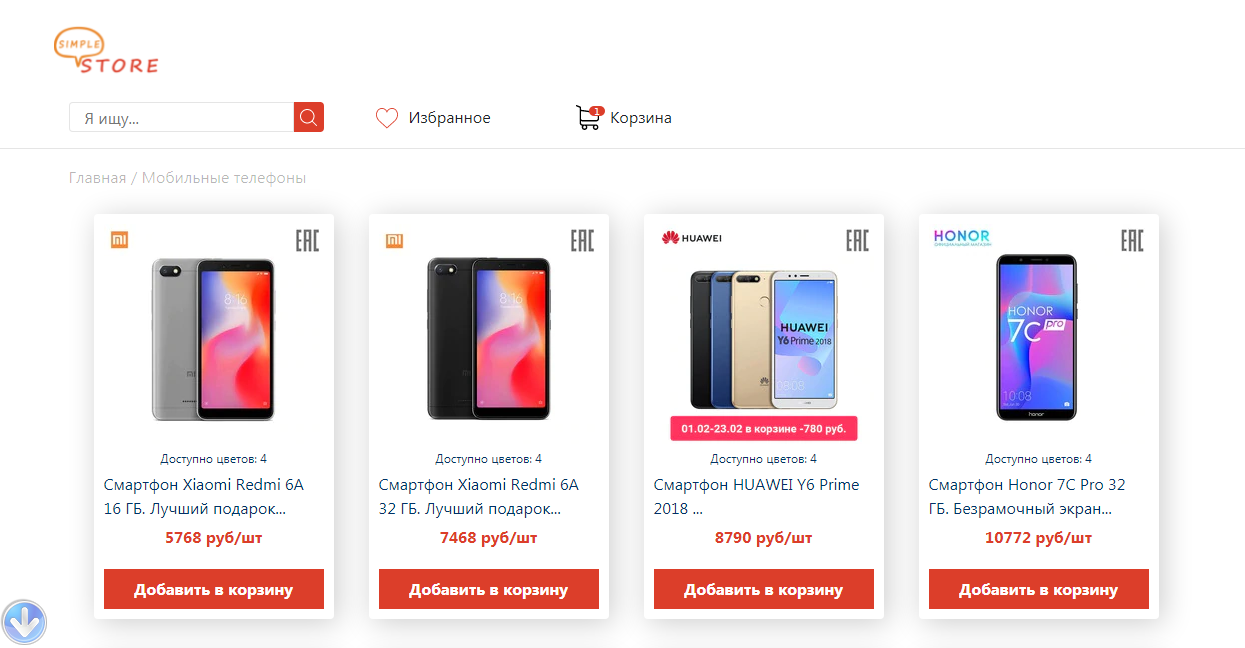
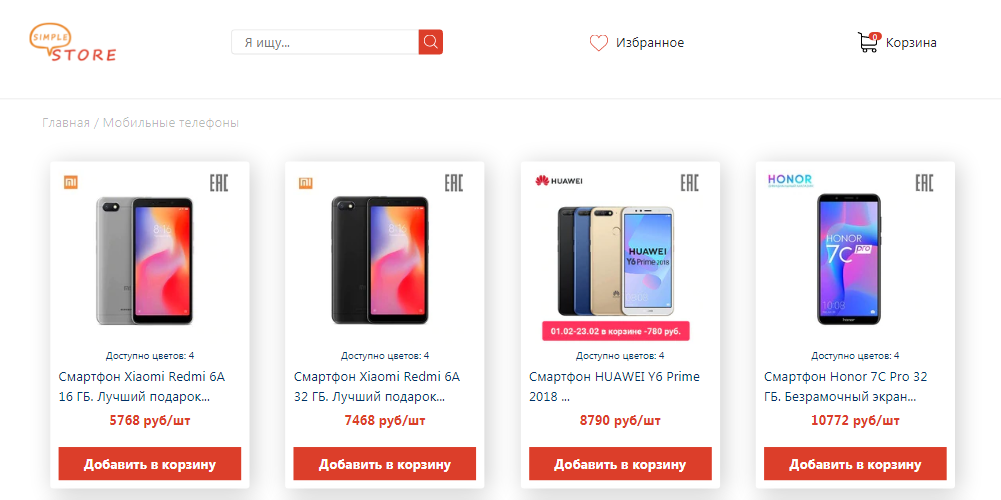
Add all the projects sections

diff --git a/index.html b/index.html
@@ -109,30 +109,29 @@
   <section class="section-wrapper" id="layout">
     <div class="container bg-dark">
       <h2>Вёрстка</h2>
-      <p class="text-white">В этом блоке вы можете ознакомится с некоторыми примерами моих работ по вёрстке веб-страниц.</p>
+      <p class="text-white">Хоть я и не акцентируюсь на вёрстке, но в этом блоке вы можете ознакомится с некоторыми примерами моих работ по вёрстке веб-страниц.</p>
       <h3>Примеры моих работ</h3>
-      <div class="projects">
-
-        <div class="projects__item">
-          <div class="card">
-            <a href="https://voverg.github.io/simple-store/" target="_blank">
-              <img src="img/projects/simple-store.png" alt="simple store image">
-              <h4>Simple store</h4>
-              <p>Страничка с выбором товара и реализацией корзины</p>
-            </a>
-          </div>
-        </div>
-
-      </div>
+      <div class="projects"></div>
     </div>
   </section>
 
   <section class="section-wrapper bg-white" id="web-apps">
-    <div class="container">Веб-приложения</div>
+    <div class="container">
+      <h2>Веб-приложения</h2>
+      <p>К данной категории я решил отнести небольшие приложениея, написанные на чистом JavaScript, которые представляют из себя программки, плагины, игрушки, калькуляторы и прочие расширения для сайта.</p>
+      <h3>Примеры моих работ</h3>
+      <div class="projects"></div>
+    </div>
   </section>
 
   <section class="section-wrapper" id="spa">
-    <div class="container">SPA(single page application)</div>
+    <div class="container">
+      <h2>SPA</h2>
+      <p class="text-white">SPA (single page application) - что в переводе означает одностраничное приложение. Отличительной особенностью данных приложений является то, что весь функционал приложения динамически генерируется в браузере, а не загружается с сервера в готовом виде. Одностраничным приложение называется потому, что все действия происходят на одной странице без её перезагрузки. Это позволяетя приложению работать быстрее и делает его схожим по функционалу с нативными приложениями, установленными на ПК или телефон.</p>
+      <p class="text-white">При разработке SPA чаще всего использую фреймворки JavaScript, чтобы не заботится о графической отрисовке приложения, а сосредоточится на работе с данными. На текущий момент я в процессе активного изучения фреймворка React, поэтому пользуюсь им.</p>
+      <h3>Примеры моих работ</h3>
+      <div class="projects"></div>
+    </div>
   </section>
 
   <section class="section-wrapper bg-white" id="contacts">
@@ -150,9 +149,9 @@
   <footer class="footer">
     <p>Created 2021 by <a href="https://github.com/voverg" target="_blank">Voverg</a></p>
   </footer>
-</div>
 
+<script src="js/model.js"></script>
+<script src="js/utils.js"></script>
 <script src="js/main.js"></script>
-<script src="https://s.pageclip.co/v1/pageclip.js" charset="utf-8"></script>
 </body>
 </html>

diff --git a/js/model.js b/js/model.js
@@ -1,0 +1,68 @@
+const layoutData = [
+  {
+    title: 'Simple store',
+    link: 'https://voverg.github.io/simple-store/',
+    img: 'img/projects/simple-store.png',
+    description: 'Страничка интернет-магазина с выбором товара и реализацией корзины'
+  },
+  {
+    title: 'Hotel landing',
+    link: 'https://voverg.github.io/hotel-landing/',
+    img: 'img/projects/hotel-landing.png',
+    description: 'Лендинг отеля. Свёрстан на float просто для тренировки и понимания, как работает блочная модель в Css.'
+  }
+];
+
+const webAppsData = [
+  {
+    title: 'Frontend quiz',
+    link: 'https://voverg.github.io/50-simple-projects/frontend-quiz/index.html',
+    img: 'img/projects/frontend-quiz.png',
+    description: 'Викторина, в которой вы можете проверть свои знания по Html, Css и JavaScript'
+  },
+  {
+    title: 'Kanban',
+    link: 'https://voverg.github.io/simple-kanban/',
+    img: 'img/projects/simple-kanban.png',
+    description: 'Небольшое приложение для создание карточек с заметками, которые можно перемещать'
+  },
+  {
+    title: 'Piano',
+    link: 'https://voverg.github.io/50-simple-projects/piano/index.html',
+    img: 'img/projects/piano.png',
+    description: 'Пианино, на котором можно играть как мышкой, так и с клавиатуры'
+  },
+  {
+    title: 'Notes',
+    link: 'https://voverg.github.io/50-simple-projects/notes-app/index.html',
+    img: 'img/projects/notes-app.png',
+    description: 'Создавайте, удаляйте и редактируйте заметки. Для стилизации текста можно использовать Markdown.'
+  },
+  {
+    title: 'Budget',
+    link: 'https://voverg.github.io/budget/',
+    img: 'img/projects/budget.png',
+    description: 'Небольшое приложение по учёту доходов и расходов.'
+  },
+  {
+    title: 'Clicker',
+    link: 'https://voverg.github.io/50-simple-projects/game/index.html',
+    img: 'img/projects/clicker.png',
+    description: 'Игра, в которой нужно за выбранное время попасть максимальное количество раз по шарику.'
+  }
+];
+
+const spaData = [
+  {
+    title: 'Todo',
+    link: 'https://voverg.github.io/todo-react/',
+    img: 'img/projects/todo-react.png',
+    description: 'Небольшое приложение - список дел, написанный на React'
+  },
+  // {
+  //   title: '',
+  //   link: '',
+  //   img: 'img/projects/.png',
+  //   description: ''
+  // }
+];

diff --git a/css/main.css b/css/main.css
@@ -45,13 +45,14 @@ h2 {
 }
 
 h3 {
-  margin: 30px 0 15px;
+  margin: 20px 0 15px;
   font-size: 1.5rem;
 }
 
 p {
+  padding-bottom: 10px;
   color: var(--font-color);
-  font-size: 1.2rem;
+  font-size: 1rem;
 }
 
 .bg-white {
@@ -156,7 +157,7 @@ section>div.container {
 }
 
 .skills__item {
-  width: 30%;
+  width: 33.33%;
   padding: 10px 0;
 }
 
@@ -168,7 +169,7 @@ section>div.container {
 
 .skills__item i {
   padding: 10px;
-  font-size: 5rem;
+  font-size: 4rem;
   color: var(--hover-color);
 }
 
@@ -176,20 +177,20 @@ section>div.container {
 .projects {
   display: flex;
   flex-wrap: wrap;
-  justify-content: space-between;
   margin-top: 20px;
 }
 
 .projects__item {
-  width: 30%;
+  max-width: 33.33%;
   padding: 10px 5px;
 }
 
 .card {
+  height: 100%;
   padding: 5px;
   background-color: #fff;
   border-radius: 5px;
-  box-shadow: 0 0 5px #777;
+  box-shadow: 0 0 5px -2px #777;
 }
 .card img {
   display: block;
@@ -277,8 +278,8 @@ section>div.container {
     margin-top: 10px;
   }
   .projects__item {
-    padding: 5px;
     width: 100%;
+    max-width: 100%;
   }
   .card h4 {
   font-size: 1.5rem;

diff --git a/js/utils.js b/js/utils.js
@@ -1,0 +1,17 @@
+function createProjectsItem(block, data) {
+  data.forEach((item) => {
+    const projectItem = `
+      <div class="projects__item">
+        <div class="card">
+          <a href="${item.link}" target="_blank">
+            <img src="${item.img}" alt="${item.title} image" title="Кликни, чтобы посмотреть демо-версию">
+            <h4>${item.title}</h4>
+            <p>${item.description}</p>
+          </a>
+        </div>
+      </div>
+    `
+
+    block.insertAdjacentHTML('beforeend', projectItem);
+  });
+}

diff --git a/js/main.js b/js/main.js
@@ -80,3 +80,12 @@ function changeActiveMenuItem(sectionId) {
   links.forEach((item) => item.classList.remove('active'));
   menuItem.classList.add('active');
 }
+
+// Добавление проектов в блоки projects
+const layoutEl = document.querySelector('#layout .projects');
+const webAppsEl = document.querySelector('#web-apps .projects');
+const spaEl = document.querySelector('#spa .projects');
+
+createProjectsItem(layoutEl, layoutData);
+createProjectsItem(webAppsEl, webAppsData);
+createProjectsItem(spaEl, spaData);
